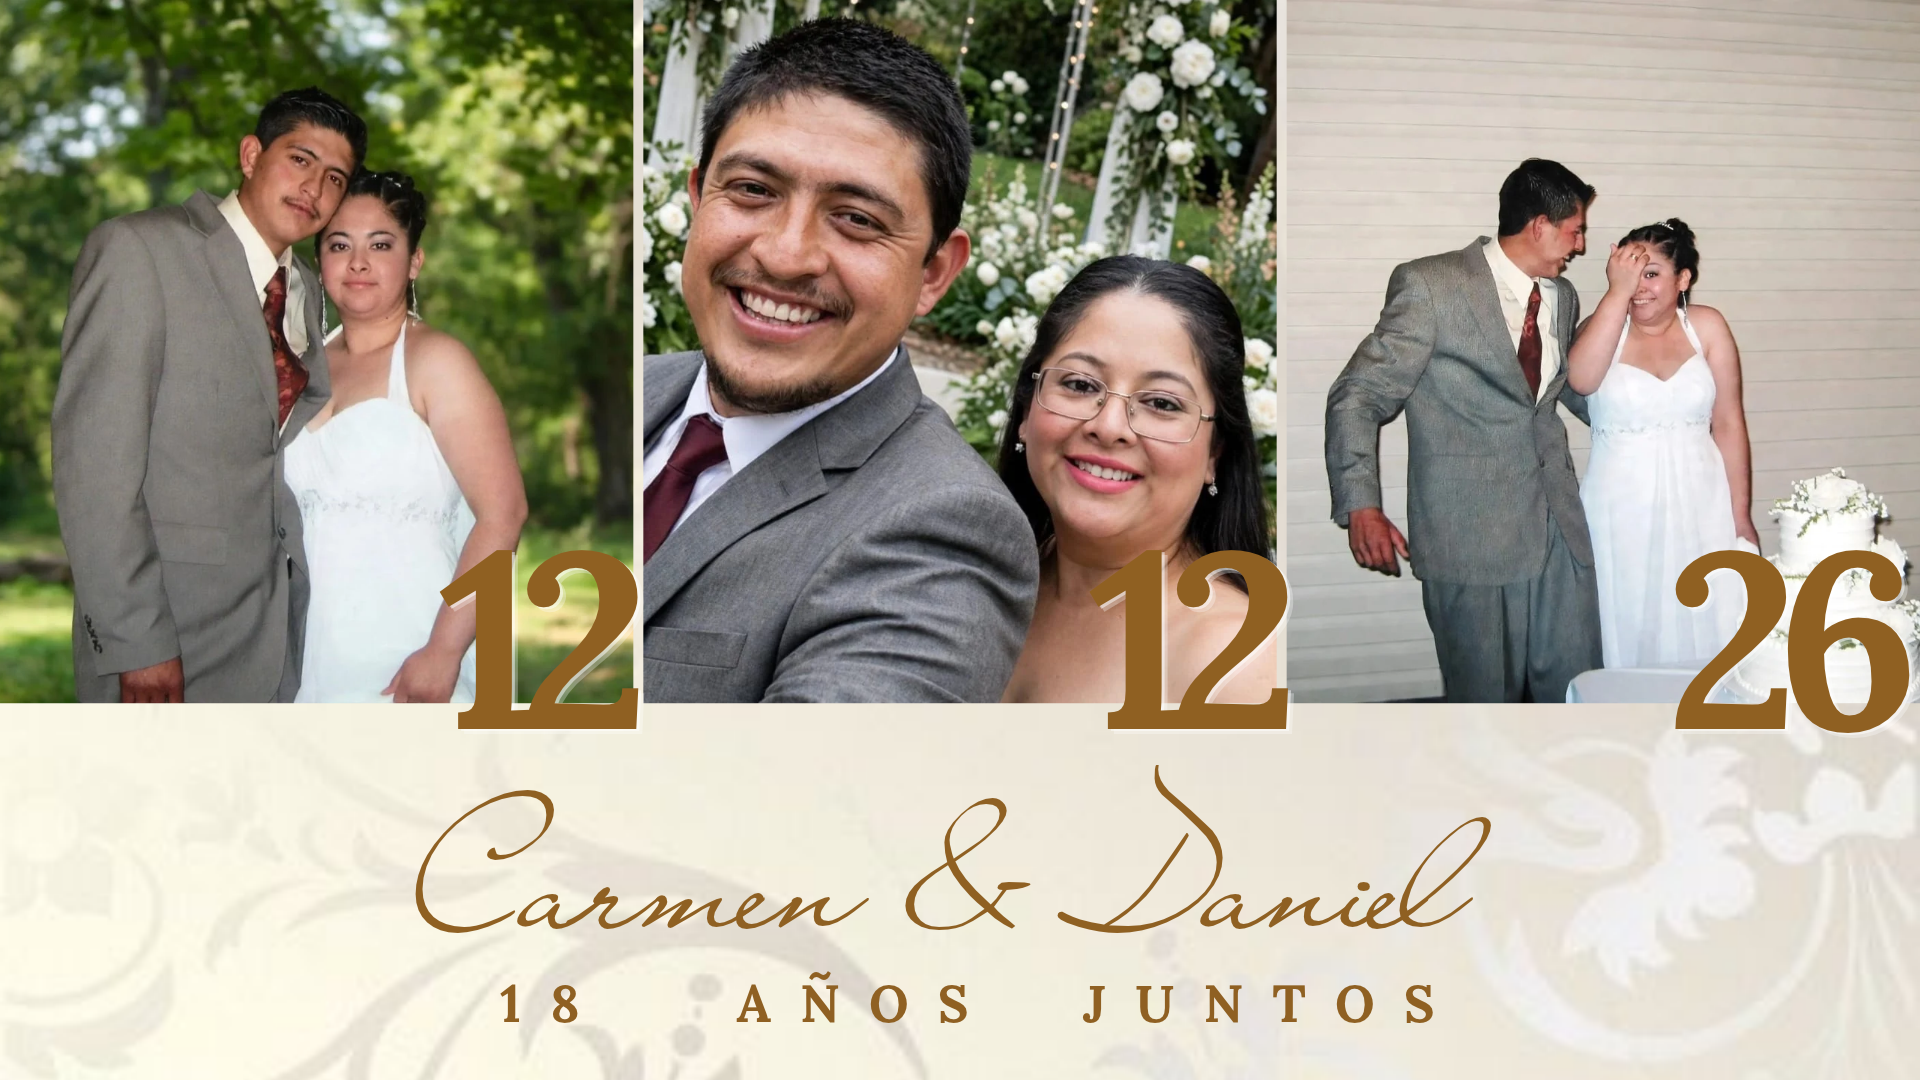
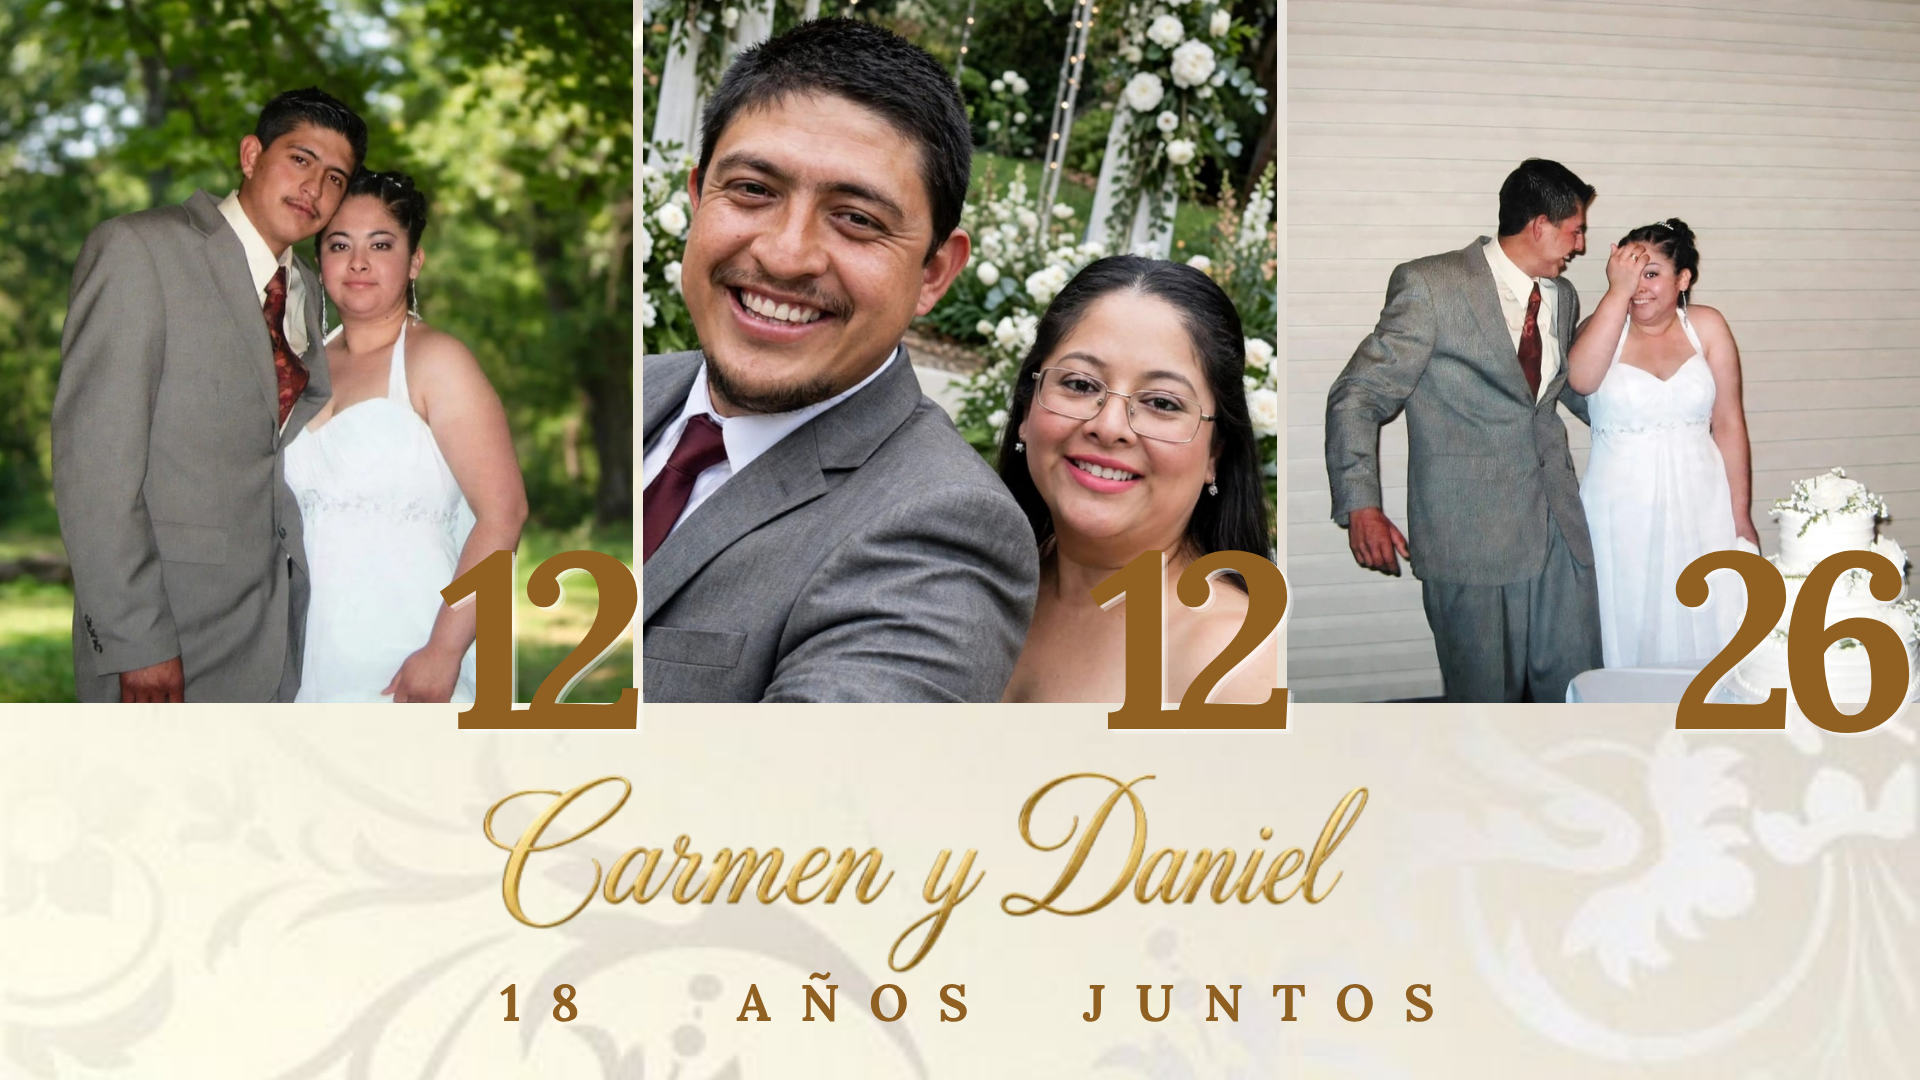
configurando el formulario prueba 1

Changed region(s): [[0.2188, 0.7028, 0.75, 0.9167], [0.75, 0.7639, 0.7812, 0.7944]]

diff --git a/index.html b/index.html
@@ -653,7 +653,7 @@ CIERRE FINAL
 
             <br><br>
 
-            Esperamos contar con tú presencia<br>
+            Deseamos contar con tú presencia<br>
             para vivir juntos una  día inolvidable.
 
         </p>
@@ -687,7 +687,7 @@ CIERRE FINAL
 
 <footer class="footer">
     <p>
-        Nuestra boda<span>Carmen & Daniel</span>
+        Nuestra boda  <span>Carmen  y   Daniel</span>
     </p>
 </footer>
 

diff --git a/script.js b/script.js
@@ -44,7 +44,7 @@ FORMULARIO MENSAJES
 ======================================================*/
 
 const URL_SCRIPT = 
-"https://script.google.com/macros/s/AKfycbzqIBV8qccC8ITV4Jsa21IYCmkSlMbuxSetgK4macTm9iIeBF3jmVZMWJa_3IYVuvUi/exec";
+"https://script.google.com/macros/s/AKfycbxiOHfYARrsoSYsoUR0X4ZTpkuISphuQCGP6W_mPGhULcbQoi8BK4hkVXjqSfCHBH6D/exec";
 
 const formulario = document.getElementById("formConfirmacion");
 
